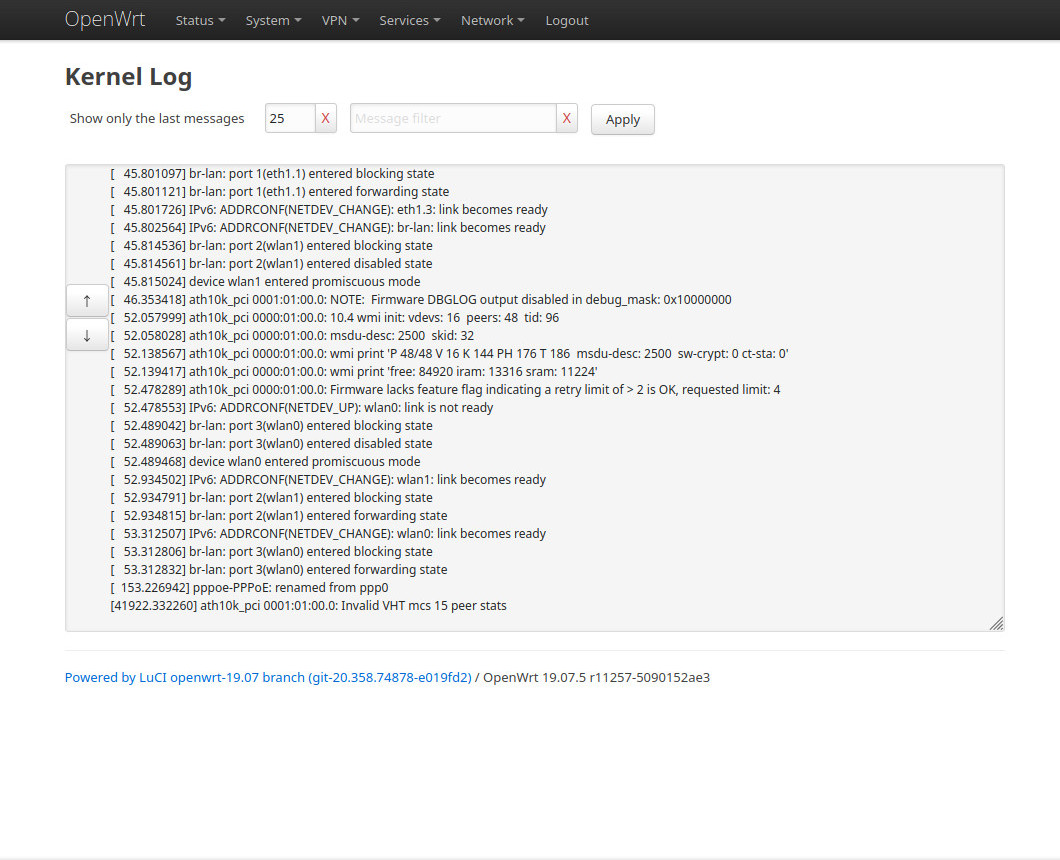
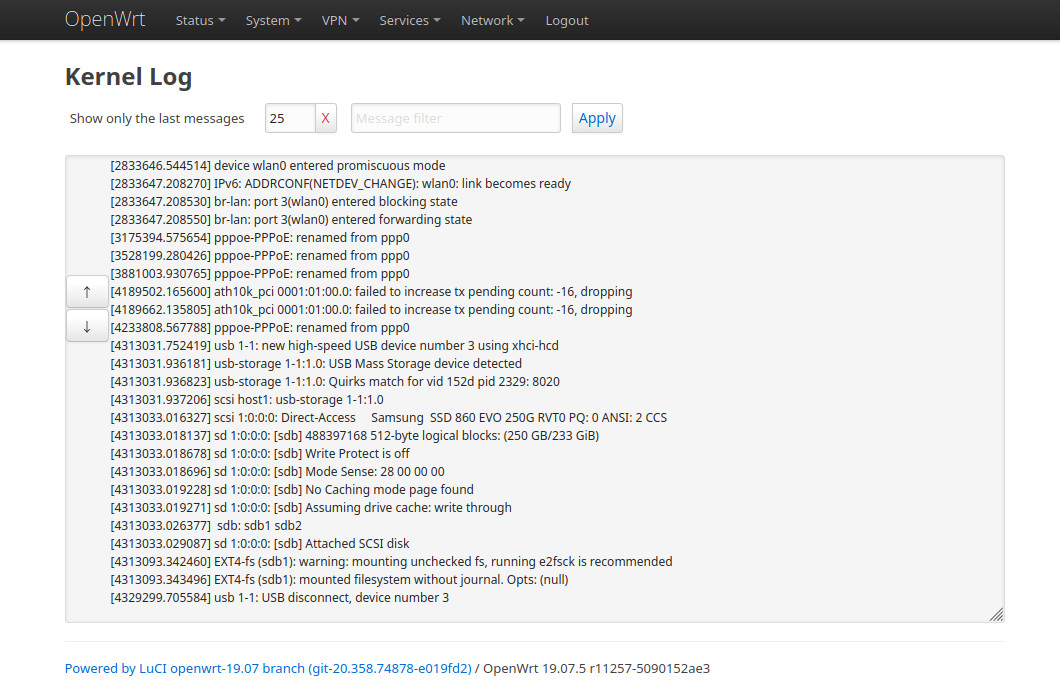
UI fixes

diff --git a/htdocs/luci-static/resources/view/dmesg.js b/htdocs/luci-static/resources/view/dmesg.js
@@ -36,7 +36,7 @@ return L.view.extend({
 			'type': 'text',
 			'form': 'logForm',
 			'class': 'cbi-input-text',
-			'style': 'width:4em !important; min-width:4em !important',
+			'style': 'width:4em !important; min-width:4em !important; margin-bottom:0.3em !important',
 			'maxlength': 5,
 		});
 		tailValue.value = this.tailDefault;
@@ -48,7 +48,7 @@ return L.view.extend({
 			'type': 'text',
 			'form': 'logForm',
 			'class': 'cbi-input-text',
-			'style': 'margin-left:1em !important; width:16em !important; min-width:16em !important',
+			'style': 'min-width:16em !important; margin-right:1em !important; margin-bottom:0.3em !important',
 			'placeholder': _('Message filter'),
 			'data-tooltip': _('Filter messages with a regexp'),
 		});
@@ -56,8 +56,8 @@ return L.view.extend({
 		let logFormSubmitBtn = E('input', {
 			'type': 'submit',
 			'form': 'logForm',
-			'class': 'cbi-button btn',
-			'style': 'margin-left:1em !important; vertical-align:middle',
+			'class': 'cbi-button btn cbi-button-action',
+			'style': 'margin-right:1em !important; margin-bottom:0.3em !important;',
 			'value': _('Apply'),
 			'click': ev => ev.target.blur(),
 		});
@@ -99,12 +99,16 @@ return L.view.extend({
 			E('div', { 'class': 'cbi-section fade-in' },
 				E('div', { 'class': 'cbi-section-node' },
 					E('div', { 'id': 'contentSyslog', 'class': 'cbi-value' }, [
-						E('label', { 'class': 'cbi-value-title', 'for': 'tailValue' },
-							_('Show only the last messages')),
+						E('label', {
+							'class': 'cbi-value-title',
+							'for': 'tailValue',
+							'style': 'margin-bottom:0.3em !important',
+						}, _('Show only the last messages')),
 						E('div', { 'class': 'cbi-value-field' }, [
 							tailValue,
 							E('input', {
 								'type': 'button',
+								'form': 'logForm',
 								'class': 'cbi-button btn cbi-button-reset',
 								'value': 'Χ',
 								'click': ev => {
@@ -112,24 +116,14 @@ return L.view.extend({
 									logFormSubmitBtn.click();
 									ev.target.blur();
 								},
-
+								'style': 'margin-right:1em !important; margin-bottom:0.3em !important; max-width:4em !important',
 							}),
 							logFilter,
-							E('input', {
-								'type': 'button',
-								'class': 'cbi-button btn cbi-button-reset',
-								'value': 'Χ',
-								'click': ev => {
-									logFilter.value = null;
-									logFormSubmitBtn.click();
-									ev.target.blur();
-								},
-							}),
 							logFormSubmitBtn,
 							E('form', {
 								'id': 'logForm',
 								'name': 'logForm',
-								'style': 'display:inline-block; margin-left:1em !important',
+								'style': 'display:inline-block; margin-bottom:0.3em !important',
 								'submit': ui.createHandlerFn(this, function(ev) {
 									ev.preventDefault();
 									let formElems = Array.from(document.forms.logForm.elements);

diff --git a/README.md b/README.md
@@ -5,16 +5,16 @@ OpenWrt >= 19.07.
 
 **Installation notes:**
 
-    wget --no-check-certificate -O /tmp/luci-app-dmesg_0.4-1_all.ipk https://github.com/gSpotx2f/luci-app-dmesg/raw/master/packages/19.07/luci-app-dmesg_0.4-1_all.ipk
-    opkg install /tmp/luci-app-dmesg_0.4-1_all.ipk
-    rm /tmp/luci-app-dmesg_0.4-1_all.ipk
+    wget --no-check-certificate -O /tmp/luci-app-dmesg_0.4-2_all.ipk https://github.com/gSpotx2f/luci-app-dmesg/raw/master/packages/19.07/luci-app-dmesg_0.4-2_all.ipk
+    opkg install /tmp/luci-app-dmesg_0.4-2_all.ipk
+    rm /tmp/luci-app-dmesg_0.4-2_all.ipk
     /etc/init.d/rpcd restart
 
 **i18n-ru:**
 
-    wget --no-check-certificate -O /tmp/luci-i18n-dmesg-ru_0.4-1_all.ipk https://github.com/gSpotx2f/luci-app-dmesg/raw/master/packages/19.07/luci-i18n-dmesg-ru_0.4-1_all.ipk
-    opkg install /tmp/luci-i18n-dmesg-ru_0.4-1_all.ipk
-    rm /tmp/luci-i18n-dmesg-ru_0.4-1_all.ipk
+    wget --no-check-certificate -O /tmp/luci-i18n-dmesg-ru_0.4-2_all.ipk https://github.com/gSpotx2f/luci-app-dmesg/raw/master/packages/19.07/luci-i18n-dmesg-ru_0.4-2_all.ipk
+    opkg install /tmp/luci-i18n-dmesg-ru_0.4-2_all.ipk
+    rm /tmp/luci-i18n-dmesg-ru_0.4-2_all.ipk
 
 **Screenshots:**
 
